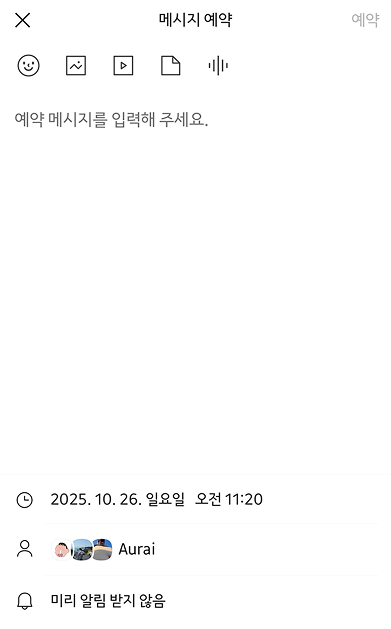
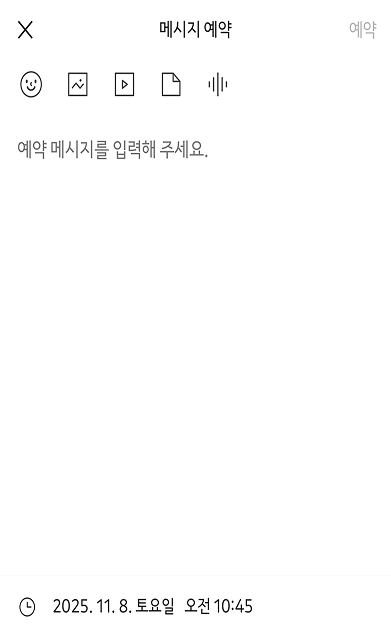
중연 11: 카카오톡 예약 메시지 보내기 수정

diff --git a/src/pages/Kakao/KakaoSettingLesson.jsx b/src/pages/Kakao/KakaoSettingLesson.jsx
@@ -34,6 +34,17 @@ export default function KakaoSettingLesson() {
     if (selectedDate) setSelectedDateTime(`${selectedDate} ${hh}:${mm}`);
     setCalendarOpen(false);
     setDateStage('date');
+    // Play the completionSpeak for the final step (step id 5) so the user hears confirmation
+    try{
+      if(typeof window !== 'undefined' && 'speechSynthesis' in window){
+        const finalStep = (steps || []).find(s => s.id === 5) || {};
+        const msg = finalStep.completionSpeak || '잘하셨어요! 예약 메시지가 저장되었습니다.';
+        window.speechSynthesis.cancel();
+        const u = new SpeechSynthesisUtterance(msg);
+        u.lang = 'ko-KR';
+        window.speechSynthesis.speak(u);
+      }
+    }catch{ /* ignore speech errors */ }
   }
 
   // 'YYYY-MM-DD HH:MM' 형식을 'YYYY.MM.DD.요일 오전/오후 H시:MM분' 형식으로 변환합니다.
@@ -140,28 +151,31 @@ export default function KakaoSettingLesson() {
       headerTitle="예약 메시지 보내기"
       headerTagline="원하는 시간과 날짜를 지정하여 메시지를 작성하고, 자동으로 발송되는 기능까지 완벽하게 예약하고 취소하는 과정을 연습합니다."
       donePath="/kakao/learn"
-      images={{ screenshot1: kreser3, screenshot2: kreser1, screenshot3: kreser2, screens: { 1: kreser1, 2: kreser2, 3: kreser3, 4: kreser5 } }}
+      images={{ screenshot1: kreser3, screenshot2: kreser1, screenshot3: kreser2, screens: { 1: kreser1, 2: kreser2, 3: kreser3, 4: kreser3, 5: kreser5 } }}
       showSubmittedBubble={false}
 
       imageOverlayConfig={{
-        3: { src: kreser4, x: '45%', y: '65%', width: '90%', transform: 'translate(-50%, -48%)', zIndex: 1, opacity: 1 },
-        // show kreser6 on step 4 only when a date/time has been selected
-        ...(selectedDateTime ? { 4: { src: kreser6, x: '34%', y: '93.5%', width: '60%', transform: 'translate(-50%, -50%)', zIndex: 2, opacity: 1 } } : {})
+        // move the explanatory overlay to the input step (now step 4)
+        4: { src: kreser4, x: '45%', y: '70%', width: '90%', transform: 'translate(-50%, -48%)', zIndex: 1, opacity: 1 },
+        // show kreser6 on step 5 only when a date/time has been selected
+        ...(selectedDateTime ? { 5: { src: kreser6, x: '34%', y: '93.5%', width: '60%', transform: 'translate(-50%, -50%)', zIndex: 2, opacity: 1 } } : {})
       }}
 
       textOverlayConfig={{
-        3: { x: '40%', y: '20%', width: '72%', fontSize: '14px', color: '#111', textAlign: 'left', zIndex: 2, whiteSpace: 'pre-wrap' },
-        // For step 4 we omit an explicit `value` so GenericLesson will fall back
-        // to its internal `submittedText` (the message the user composed on step 3),
-        // ensuring the message appears in the same position on step 4.
-        4: { x: '32%', y: '22%', width: '60%', fontSize: '14px', color: '#0f172a', textAlign: 'left', zIndex: 3, whiteSpace: 'nowrap' }
+        // previous step 3 overlay is now on step 4 (input step)
+        4: { x: '40%', y: '20%', width: '72%', fontSize: '14px', color: '#111', textAlign: 'left', zIndex: 2, whiteSpace: 'pre-wrap' },
+        // For step 5 we show the submitted message from step 4 (use submittedText)
+        5: { valueFromStep: 4, x: '32%', y: '22%', width: '60%', fontSize: '14px', color: '#0f172a', textAlign: 'left', zIndex: 3, whiteSpace: 'nowrap' }
       }}
 
       tapHintConfig={{
         1: { selector: null, x: '7%', y: '86%', width: '26px', height: '24px', borderRadius: '10px', suppressInitial: true, ariaLabel: '더하기 버튼 힌트', offsetY: -20 },
-        2: { selector: null, x: '49%', y: '74%', width: '35px', height: '35px', borderRadius: '10px', suppressInitial: true, ariaLabel: '예약 메시지 버튼 힌트', offsetY: -20.5 },
-        3: { selector: null, x: '90.1%', y: '85%', width: '25px', height: '25px', borderRadius: '15px', suppressInitial: false, ariaLabel: '예약 전송 힌트', offsetY: 142 },
-        4: {
+        2: { selector: null, x: '49%', y: '80%', width: '35px', height: '35px', borderRadius: '10px', suppressInitial: true, ariaLabel: '예약 메시지 버튼 힌트', offsetY: -20.5 },
+        3: { selector: null, x: '30%', y: '19%', width: '155px', height: '35px', borderRadius: '10px', suppressInitial: true, ariaLabel: '예약 메시지 버튼 힌트', offsetY: -20.5 },
+        // send hint is now on step 4 (was step 3)
+        4: { selector: null, x: '90.1%', y: '85%', width: '25px', height: '25px', borderRadius: '15px', suppressInitial: false, ariaLabel: '예약 전송 힌트', offsetY: 142 },
+        // calendar/confirmation hint moved to step 5
+        5: {
           selector: null,
           x: '80%', y: '85%', width: '190px', height: '28px', borderRadius: '10px', suppressInitial: false,
           ariaLabel: '예약 완료 힌트', offsetY: -37, offsetX: -120, onActivate: openCalendar,

diff --git a/src/pages/Kakao/KakaoSettingLessonSteps.js b/src/pages/Kakao/KakaoSettingLessonSteps.js
@@ -16,10 +16,17 @@ const steps = [
     title: "예약 메시지 누르기",
     instruction: "예약 메시지 버튼을 눌러보세요.",
     focusAreas: [{ x: 32, y: 34.4, w: 60, h: 7 }],
-    speak: "예약 메시지 버튼을 찾고, 눌러보세요.ㅂ",
+    speak: "예약 메시지 버튼을 찾고, 눌러보세요.",
   },
   {
     id: 3,
+    title: "예약 작성 미리보기",
+    instruction: "예약 내용을 작성하기 전에 화면 구성을 확인하세요.",
+    focusAreas: [{ x: 4, y: 30, w: 92, h: 25 }],
+    speak: "예약 내용을 작성하기 전에 화면을 확인해보세요.",
+  },
+  {
+    id: 4,
     title: "예약 저장 및 전송",
     instruction:
       "작성한 메시지를 확인한 뒤 초록색 예약(전송) 버튼을 눌러 예약을 완료하세요.",
@@ -30,12 +37,11 @@ const steps = [
     inputPlaceholder: "예약 메시지를 입력하세요",
   },
   {
-    id: 4,
-    title: "예약 확인 화면",
-    instruction:
-      "작성한 예약 메시지를 확인하세요. 입력한 내용이 왼쪽에 표시됩니다.",
+    id: 5,
+    title: "예약 날짜와 시간 선택",
+    instruction: "예약할 날짜와 시간을 선택해보세요.",
     focusAreas: [{ x: 4, y: 45, w: 92, h: 10, pill: true }],
-    speak: "예약된 메시지를 확인해보세요.",
+    speak: "예약할 날짜와 시간을 선택하세요.",
     completionSpeak:
       "잘하셨어요! 예약 메시지가 저장되었습니다. 아래 완료 버튼을 눌러 학습으로 돌아가세요.",
     // no inputPlaceholder: this page is display-only (shows the entered text)

diff --git a/src/pages/Kakao/KakaoFriendLessonSteps.js b/src/pages/Kakao/KakaoFriendLessonSteps.js
@@ -35,8 +35,6 @@ const steps = [
     instruction: "친구 추가 탭을 눌러보세요.",
     focusAreas: [{ x: 6, y: 46, w: 88, h: 10, pill: true }],
     speak: "친구 추가 탭을 눌러 친구 추가를 완료해보세요.",
-    completionSpeak:
-      "잘하셨어요 아래 완료 버튼을 눌러 더 많은걸 배우러 가볼까요?",
   },
   {
     id: 6,
@@ -52,6 +50,8 @@ const steps = [
     instruction: "작업이 완료되었는지 최종 확인해보세요.",
     focusAreas: [{ x: 6, y: 46, w: 88, h: 10, pill: true }],
     speak: "모든 작업을 확인하셨다면 완료해보세요.",
+    completionSpeak:
+      "잘하셨어요 아래 완료 버튼을 눌러 더 많은걸 배우러 가볼까요?",
   },
 ];
 export default steps;
